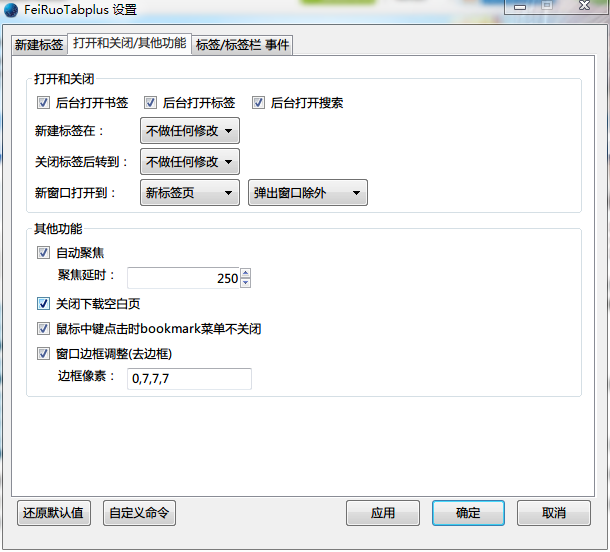
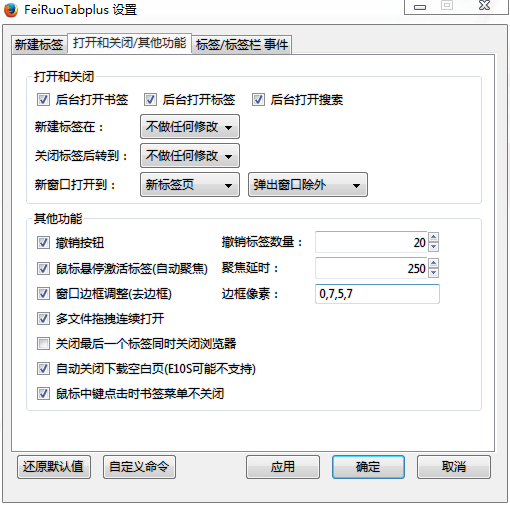
修复设置问题

Changed region(s): [[0.0, 0.0, 1.0, 1.0], [0.6176, 0.4455, 0.8824, 0.5941]]

diff --git a/FeiRuoTabplus/FeiRuoTabplus.uc.js b/FeiRuoTabplus/FeiRuoTabplus.uc.js
@@ -591,20 +591,20 @@
 		},
 
 		Listener: function(e, tag, btn, command, tkey, keys, CN) {
-			if (btn == "MouseScrollUp") {
-				if (tag === "Tab" && e.target.localName == "tab" && e.detail < 0)
+			if (btn == 'MouseScrollUp' && e.detail < 0) {
+				if (tag === "Tab" && e.target.localName == "tab")
 					FeiRuoTabplus.Listen_AidtKey(e, command, tkey, keys, CN);
-				if (tag === "TabBar" && e.target.localName != "tab" && e.detail < 0)
+				if (tag === 'TabBar' && e.target.localName != "tab")
 					FeiRuoTabplus.Listen_AidtKey(e, command, tkey, keys, CN);
-			} else if (btn == "MouseScrollDown") {
-				if (tag === "Tab" && e.target.localName == "tab" && e.detail > 0)
+			} else if (btn == 'MouseScrollDown' && e.detail > 0) {
+				if (tag === "Tab" && e.target.localName == "tab")
 					FeiRuoTabplus.Listen_AidtKey(e, command, tkey, keys, CN);
-				if (tag === "TabBar" && e.target.localName != "tab" && e.detail > 0)
+				if (tag === 'TabBar' && e.target.localName != "tab")
 					FeiRuoTabplus.Listen_AidtKey(e, command, tkey, keys, CN);
 			} else {
 				if (tag === "Tab" && e.target.localName == "tab" && e.button == btn)
 					FeiRuoTabplus.Listen_AidtKey(e, command, tkey, keys, CN);
-				if (tag === "TabBar" && e.target.localName != "tab" && e.button == btn)
+				if (tag === 'TabBar' && e.target.localName != "tab" && e.button == btn)
 					FeiRuoTabplus.Listen_AidtKey(e, command, tkey, keys, CN);
 			}
 		},
@@ -658,6 +658,7 @@
 		Listen_Command: function(e, command, CN) {
 			e.stopPropagation();
 			e.preventDefault();
+			ShowStatus(command);
 			switch (command) {
 				case 'AddTab':
 					BrowserOpenTab();
@@ -684,12 +685,12 @@
 					break;
 				case 'LoadWithIE':
 					try {
-						var file = Components.classes["@mozilla.org/file/directory_service;1"].getService(Components.interfaces.nsIProperties).get("ProgF", Components.interfaces.nsILocalFile);
+						var file = Cc["@mozilla.org/file/directory_service;1"].getService(Ci.nsIProperties).get("ProgF", Ci.nsILocalFile);
 						file.append("Internet Explorer");
 						file.append("iexplore.exe");
 						var process = Cc["@mozilla.org/process/util;1"].createInstance(Ci.nsIProcess);
 						process.init(file);
-						var url = window.content ? content.location.href : gBrowser.selectedBrowser.contentDocumentAsCPOW.location.href;
+						var url = gBrowser.selectedBrowser.currentURI.spec;
 						process.run(false, [url], 1);
 					} catch (ex) {
 						alert("打开IE失败!\n" + ex);
@@ -1408,10 +1409,8 @@
 				window.openDialog("data:application/vnd.mozilla.xul+xml;charset=UTF-8," + option, '', 'chrome,titlebar,toolbar,centerscreen,dialog=no');
 			}
 		},
-	};
-
-	FeiRuoTabplus.option = function() {
-		var xul = '<?xml version="1.0"?><?xml-stylesheet href="chrome://global/skin/" type="text/css"?>\
+		option: function() {
+			var xul = '<?xml version="1.0"?><?xml-stylesheet href="chrome://global/skin/" type="text/css"?>\
 					<prefwindow xmlns="http://www.mozilla.org/keymaster/gatekeeper/there.is.only.xul"\
 					id="FeiRuoTabplus_Settings"\
 					ignorekeys="true"\
@@ -1645,7 +1644,8 @@
 					</prefpane>\
 					</prefwindow>\
           			';
-		return encodeURIComponent(xul);
+			return encodeURIComponent(xul);
+		}
 	};
 
 	FeiRuoTabplus.OptionScript = {
@@ -1906,7 +1906,7 @@
 									opener.FeiRuoTabplus.getWindow(0).focus();\
 							}\
 							function MouseChanged(type){\
-								opener.FeiRuoTabplus.Detaill_OptionScript.MouseChanged();\
+								opener.FeiRuoTabplus.Detaill_OptionScript.MouseChanged(type);\
 							}\
 						</script>\
 							<vbox style = "width:400px; min-height:275px;">\
@@ -2285,6 +2285,8 @@
 
 			_$D("MouseBtn").selectedIndex = param["btn"] || 0;
 
+			_$D("MouseScroll").selectedIndex = (param["action"] == 'MouseScrollDown' ? 1 : 0);
+
 			_$D("MouseDblClick").checked = (param["action"] == "dblclick" ? true : false);
 
 			if (param["action"] == "dblclick" || param["action"] == "click" || !param["action"])
@@ -2292,7 +2294,7 @@
 			else
 				_$D("MouseAction").value = "MouseMidScroll";
 
-			this.MouseChanged();
+			this.MouseChanged(_$D("MouseAction").value == "MouseMidScroll" ? 1 : false);
 
 			_$D("EventTag").value = param["tag"] || "Tab";
 
@@ -2577,6 +2579,13 @@
 	function alert(aString, aTitle) {
 		Cc['@mozilla.org/alerts-service;1'].getService(Ci.nsIAlertsService)
 			.showAlertNotification("", aTitle || "FeiRuoTabplus", aString, false, "", null);
+	}
+
+	function ShowStatus(str, time) {
+		XULBrowserWindow.statusTextField.label = '[FeiRuoTabplus]' + str;
+		setTimeout(function() {
+			XULBrowserWindow.statusTextField.label = '';
+		}, time || 1500)
 	}
 
 	function $C(name, attr) {
